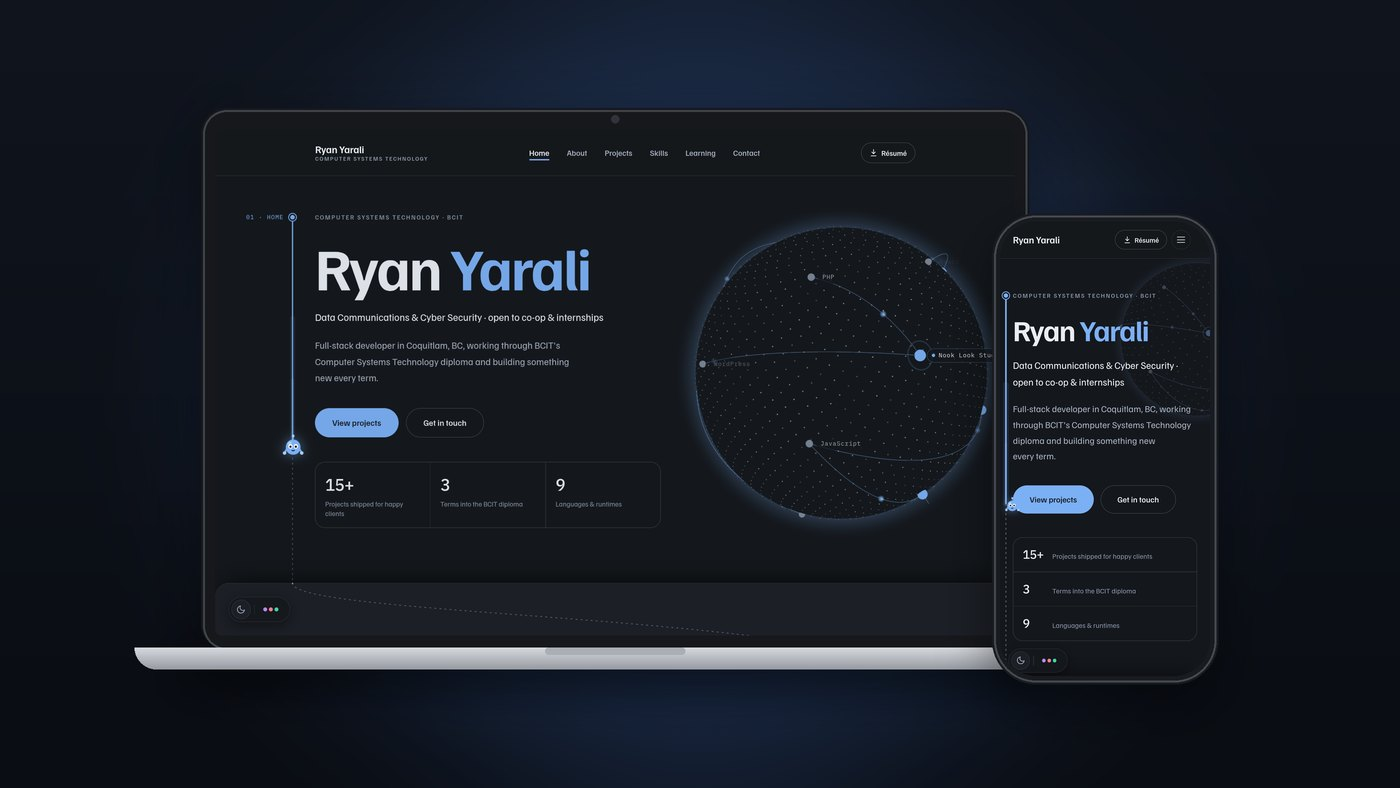
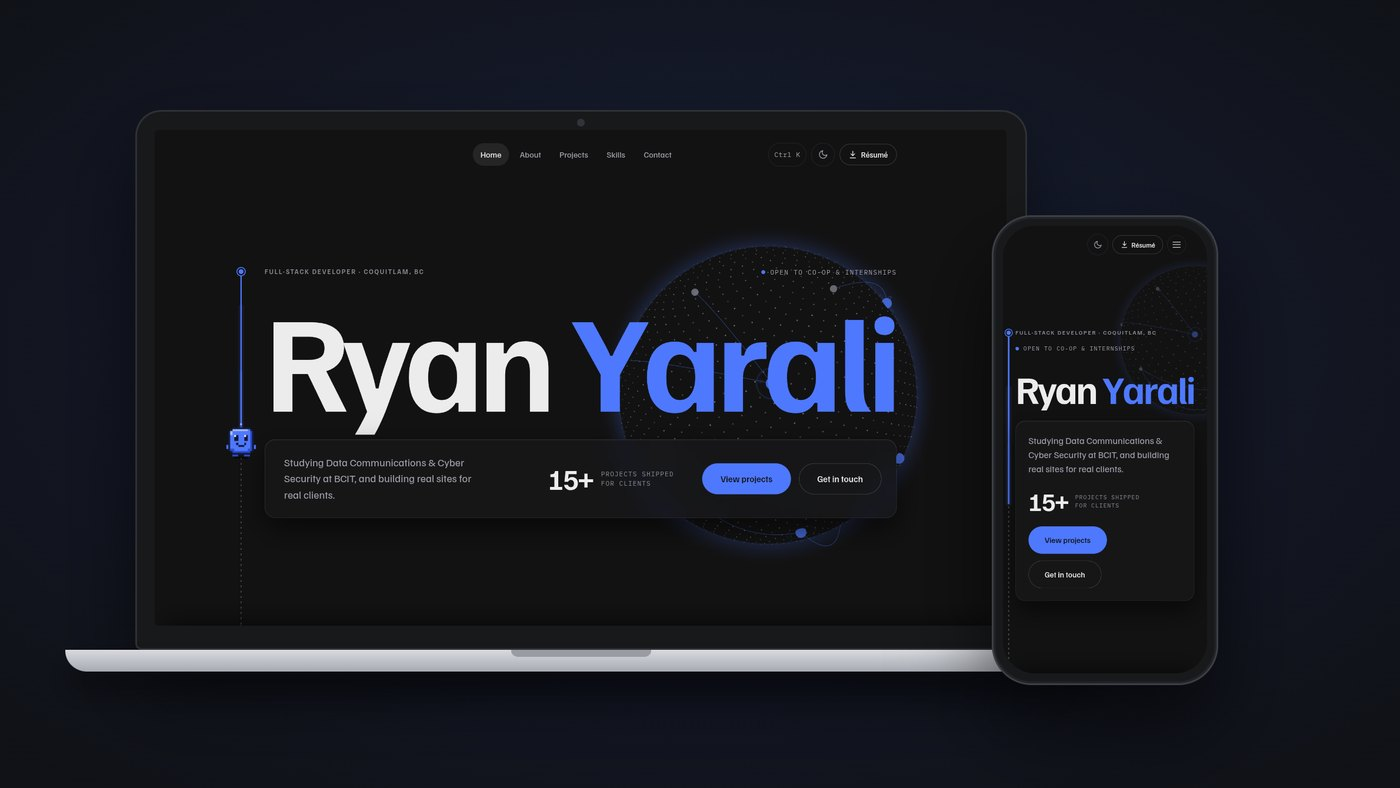
Share cards that sell: a designed card per page
- Home and projects share a card with the name, proof chips, a fan of real project screenshots and Ping
- Each case study shares its own card: project name, one-line pitch, its cover tilted, Ping and the URL
- The This site cover is rebuilt from the current design (it still showed the old one)

diff --git a/projects/foodroutes.html b/projects/foodroutes.html
@@ -29,18 +29,18 @@
     <meta property="og:url" content="https://ryanyarali.com/projects/foodroutes.html" />
     <meta property="og:title" content="FoodRoutes: Transit to Affordable Food | Ryan Yarali" />
     <meta property="og:description" content="A team-built mobile app for transit directions to affordable groceries. I built its navigation map and Supabase accounts flow in React and TypeScript." />
-    <meta property="og:image" content="https://ryanyarali.com/assets/fr-cover.jpg" />
-    <meta property="og:image:width" content="1400" />
-    <meta property="og:image:height" content="788" />
-    <meta property="og:image:alt" content="Three FoodRoutes phone screens: the map with nearby grocery stores in Burnaby and the travel-mode buttons, the saved-routes list, and the sign-up form showing validation errors" />
+    <meta property="og:image" content="https://ryanyarali.com/assets/og/foodroutes.jpg" />
+    <meta property="og:image:width" content="1200" />
+    <meta property="og:image:height" content="630" />
+    <meta property="og:image:alt" content="FoodRoutes, a case study by Ryan Yarali: affordable groceries nearby and transit directions there, beside a screenshot of the project." />
     <meta property="article:published_time" content="2026-10-12T12:00:00-07:00" />
     <meta property="article:modified_time" content="2026-10-12T12:00:00-07:00" />
     <meta property="article:author" content="https://ryanyarali.com/" />
     <meta name="twitter:card" content="summary_large_image" />
     <meta name="twitter:title" content="FoodRoutes: Transit to Affordable Food | Ryan Yarali" />
     <meta name="twitter:description" content="A team-built mobile app for transit directions to affordable groceries. I built its navigation map and Supabase accounts flow in React and TypeScript." />
-    <meta name="twitter:image" content="https://ryanyarali.com/assets/fr-cover.jpg" />
-    <meta name="twitter:image:alt" content="Three FoodRoutes phone screens: the map with nearby grocery stores in Burnaby and the travel-mode buttons, the saved-routes list, and the sign-up form showing validation errors" />
+    <meta name="twitter:image" content="https://ryanyarali.com/assets/og/foodroutes.jpg" />
+    <meta name="twitter:image:alt" content="FoodRoutes, a case study by Ryan Yarali: affordable groceries nearby and transit directions there, beside a screenshot of the project." />
 
     <title>FoodRoutes: Transit to Affordable Food | Ryan Yarali</title>
 

diff --git a/projects/vancobab.html b/projects/vancobab.html
@@ -29,18 +29,18 @@
     <meta property="og:url" content="https://ryanyarali.com/projects/vancobab.html" />
     <meta property="og:title" content="Vancobab: Food Truck Website | Ryan Yarali" />
     <meta property="og:description" content="How a Vancouver Persian kebab food truck got a five-page site with a Persian visual identity, an order builder, and a pre-launch signup flow, in plain HTML, CSS and JavaScript." />
-    <meta property="og:image" content="https://ryanyarali.com/assets/vb-cover.jpg" />
-    <meta property="og:image:width" content="1400" />
-    <meta property="og:image:height" content="788" />
-    <meta property="og:image:alt" content="Vancobab website on a laptop and a phone: the headline Persian kebab, fresh off the grill beside a gold Persian medallion around the flame emblem" />
+    <meta property="og:image" content="https://ryanyarali.com/assets/og/vancobab.jpg" />
+    <meta property="og:image:width" content="1200" />
+    <meta property="og:image:height" content="630" />
+    <meta property="og:image:alt" content="Vancobab, a case study by Ryan Yarali: a five-page site for a Persian kebab food truck, beside a screenshot of the project." />
     <meta property="article:published_time" content="2026-10-12T12:00:00-07:00" />
     <meta property="article:modified_time" content="2026-10-12T12:00:00-07:00" />
     <meta property="article:author" content="https://ryanyarali.com/" />
     <meta name="twitter:card" content="summary_large_image" />
     <meta name="twitter:title" content="Vancobab: Food Truck Website | Ryan Yarali" />
     <meta name="twitter:description" content="How a Vancouver Persian kebab food truck got a five-page site with a Persian visual identity, an order builder, and a pre-launch signup flow, in plain HTML, CSS and JavaScript." />
-    <meta name="twitter:image" content="https://ryanyarali.com/assets/vb-cover.jpg" />
-    <meta name="twitter:image:alt" content="Vancobab website on a laptop and a phone: the headline Persian kebab, fresh off the grill beside a gold Persian medallion around the flame emblem" />
+    <meta name="twitter:image" content="https://ryanyarali.com/assets/og/vancobab.jpg" />
+    <meta name="twitter:image:alt" content="Vancobab, a case study by Ryan Yarali: a five-page site for a Persian kebab food truck, beside a screenshot of the project." />
 
     <title>Vancobab: Food Truck Website | Ryan Yarali</title>
 

diff --git a/projects/nooklook.html b/projects/nooklook.html
@@ -29,18 +29,18 @@
     <meta property="og:url" content="https://ryanyarali.com/projects/nooklook.html" />
     <meta property="og:title" content="Nook Look Studio: Photography Website | Ryan Yarali" />
     <meta property="og:description" content="How a Coquitlam portrait studio got four priced service lines, a booking pipeline, a filterable gallery, and local SEO on WordPress, built and launched solo." />
-    <meta property="og:image" content="https://ryanyarali.com/assets/nl-cover.jpg" />
-    <meta property="og:image:width" content="1400" />
-    <meta property="og:image:height" content="788" />
-    <meta property="og:image:alt" content="Nook Look Studio website on a laptop and a phone: a dark panel reading Warm, unhurried portraits beside a maternity photograph by a lake" />
+    <meta property="og:image" content="https://ryanyarali.com/assets/og/nooklook.jpg" />
+    <meta property="og:image:width" content="1200" />
+    <meta property="og:image:height" content="630" />
+    <meta property="og:image:alt" content="Nook Look Studio, a case study by Ryan Yarali: the full web presence for a Coquitlam portrait studio, beside a screenshot of the project." />
     <meta property="article:published_time" content="2026-09-10T12:00:00-07:00" />
     <meta property="article:modified_time" content="2026-10-06T12:00:00-07:00" />
     <meta property="article:author" content="https://ryanyarali.com/" />
     <meta name="twitter:card" content="summary_large_image" />
     <meta name="twitter:title" content="Nook Look Studio: Photography Website | Ryan Yarali" />
     <meta name="twitter:description" content="How a Coquitlam portrait studio got four priced service lines, a booking pipeline, a filterable gallery, and local SEO on WordPress, built and launched solo." />
-    <meta name="twitter:image" content="https://ryanyarali.com/assets/nl-cover.jpg" />
-    <meta name="twitter:image:alt" content="Nook Look Studio website on a laptop and a phone: a dark panel reading Warm, unhurried portraits beside a maternity photograph by a lake" />
+    <meta name="twitter:image" content="https://ryanyarali.com/assets/og/nooklook.jpg" />
+    <meta name="twitter:image:alt" content="Nook Look Studio, a case study by Ryan Yarali: the full web presence for a Coquitlam portrait studio, beside a screenshot of the project." />
 
     <title>Nook Look Studio: Photography Website | Ryan Yarali</title>
 

diff --git a/projects/taskmate.html b/projects/taskmate.html
@@ -29,18 +29,18 @@
     <meta property="og:url" content="https://ryanyarali.com/projects/taskmate.html" />
     <meta property="og:title" content="TaskMate: Academic Task Management | Ryan Yarali" />
     <meta property="og:description" content="A task manager built so students stop losing deadlines across five apps. Firebase auth and Firestore end to end, tested by a nine-person team." />
-    <meta property="og:image" content="https://ryanyarali.com/assets/tm-cover.jpg" />
-    <meta property="og:image:width" content="1400" />
-    <meta property="og:image:height" content="788" />
-    <meta property="og:image:alt" content="Three TaskMate phone screens: the home dashboard welcoming Ryan, the To Do list grouped by due date with priorities, and completed tasks with check marks" />
+    <meta property="og:image" content="https://ryanyarali.com/assets/og/taskmate.jpg" />
+    <meta property="og:image:width" content="1200" />
+    <meta property="og:image:height" content="630" />
+    <meta property="og:image:alt" content="TaskMate, a case study by Ryan Yarali: students' deadlines from five apps in one list, beside a screenshot of the project." />
     <meta property="article:published_time" content="2026-03-27T12:00:00-07:00" />
     <meta property="article:modified_time" content="2026-10-06T12:00:00-07:00" />
     <meta property="article:author" content="https://ryanyarali.com/" />
     <meta name="twitter:card" content="summary_large_image" />
     <meta name="twitter:title" content="TaskMate: Academic Task Management | Ryan Yarali" />
     <meta name="twitter:description" content="A task manager built so students stop losing deadlines across five apps. Firebase auth and Firestore end to end, tested by a nine-person team." />
-    <meta name="twitter:image" content="https://ryanyarali.com/assets/tm-cover.jpg" />
-    <meta name="twitter:image:alt" content="Three TaskMate phone screens: the home dashboard welcoming Ryan, the To Do list grouped by due date with priorities, and completed tasks with check marks" />
+    <meta name="twitter:image" content="https://ryanyarali.com/assets/og/taskmate.jpg" />
+    <meta name="twitter:image:alt" content="TaskMate, a case study by Ryan Yarali: students' deadlines from five apps in one list, beside a screenshot of the project." />
 
     <title>TaskMate: Academic Task Management | Ryan Yarali</title>
 

diff --git a/projects/hackertycoon.html b/projects/hackertycoon.html
@@ -29,18 +29,18 @@
     <meta property="og:url" content="https://ryanyarali.com/projects/hackertycoon.html" />
     <meta property="og:title" content="Hacker Tycoon: JavaFX Idle Game | Ryan Yarali" />
     <meta property="og:description" content="A JavaFX idle tycoon game built by two at BCIT: hacking jobs, random events, an FBI raid meter, badges, and the save and sound systems I built." />
-    <meta property="og:image" content="https://ryanyarali.com/assets/ht-cover.jpg" />
-    <meta property="og:image:width" content="1400" />
-    <meta property="og:image:height" content="788" />
-    <meta property="og:image:alt" content="Hacker Tycoon on a laptop: a job board with progress bars, upgrade shops, badges, a suspicion meter at 72%, and three logs over falling green code" />
+    <meta property="og:image" content="https://ryanyarali.com/assets/og/hackertycoon.jpg" />
+    <meta property="og:image:width" content="1200" />
+    <meta property="og:image:height" content="630" />
+    <meta property="og:image:alt" content="Hacker Tycoon, a case study by Ryan Yarali: a JavaFX idle game, beside a screenshot of the project." />
     <meta property="article:published_time" content="2026-10-12T12:00:00-07:00" />
     <meta property="article:modified_time" content="2026-10-12T12:00:00-07:00" />
     <meta property="article:author" content="https://ryanyarali.com/" />
     <meta name="twitter:card" content="summary_large_image" />
     <meta name="twitter:title" content="Hacker Tycoon: JavaFX Idle Game | Ryan Yarali" />
     <meta name="twitter:description" content="A JavaFX idle tycoon game built by two at BCIT: hacking jobs, random events, an FBI raid meter, badges, and the save and sound systems I built." />
-    <meta name="twitter:image" content="https://ryanyarali.com/assets/ht-cover.jpg" />
-    <meta name="twitter:image:alt" content="Hacker Tycoon on a laptop: a job board with progress bars, upgrade shops, badges, a suspicion meter at 72%, and three logs over falling green code" />
+    <meta name="twitter:image" content="https://ryanyarali.com/assets/og/hackertycoon.jpg" />
+    <meta name="twitter:image:alt" content="Hacker Tycoon, a case study by Ryan Yarali: a JavaFX idle game, beside a screenshot of the project." />
 
     <title>Hacker Tycoon: JavaFX Idle Game | Ryan Yarali</title>
 

diff --git a/projects/this-site.html b/projects/this-site.html
@@ -29,18 +29,18 @@
     <meta property="og:url" content="https://ryanyarali.com/projects/this-site.html" />
     <meta property="og:title" content="How this site is built | Ryan Yarali" />
     <meta property="og:description" content="How ryanyarali.com is built: a 3D network globe, scroll-stacked pages and real network timing, with no framework, no build step and every word in the HTML." />
-    <meta property="og:image" content="https://ryanyarali.com/assets/site-cover.jpg" />
-    <meta property="og:image:width" content="1400" />
-    <meta property="og:image:height" content="788" />
-    <meta property="og:image:alt" content="This portfolio on a laptop and a phone: Ryan Yarali's name beside a 3D network globe, with Ping on the route line" />
+    <meta property="og:image" content="https://ryanyarali.com/assets/og/this-site.jpg" />
+    <meta property="og:image:width" content="1200" />
+    <meta property="og:image:height" content="630" />
+    <meta property="og:image:alt" content="This site, a case study by Ryan Yarali: how ryanyarali.com is built, beside a screenshot of the project." />
     <meta property="article:published_time" content="2026-10-06T12:00:00-07:00" />
     <meta property="article:modified_time" content="2026-10-06T12:00:00-07:00" />
     <meta property="article:author" content="https://ryanyarali.com/" />
     <meta name="twitter:card" content="summary_large_image" />
     <meta name="twitter:title" content="How this site is built | Ryan Yarali" />
     <meta name="twitter:description" content="How ryanyarali.com is built: a 3D network globe, scroll-stacked pages and real network timing, with no framework, no build step and every word in the HTML." />
-    <meta name="twitter:image" content="https://ryanyarali.com/assets/site-cover.jpg" />
-    <meta name="twitter:image:alt" content="This portfolio on a laptop and a phone: Ryan Yarali's name beside a 3D network globe, with Ping on the route line" />
+    <meta name="twitter:image" content="https://ryanyarali.com/assets/og/this-site.jpg" />
+    <meta name="twitter:image:alt" content="This site, a case study by Ryan Yarali: how ryanyarali.com is built, beside a screenshot of the project." />
 
     <title>How this site is built | Ryan Yarali</title>
 

diff --git a/index.html b/index.html
@@ -43,15 +43,15 @@
     <meta property="og:url" content="https://ryanyarali.com/" />
     <meta property="og:title" content="Ryan Yarali | Full-Stack Developer &amp; BCIT CST Student" />
     <meta property="og:description" content="Ryan Yarali, full-stack developer and BCIT Computer Systems Technology student in Coquitlam, BC, open to internship, co-op and junior developer roles." />
-    <meta property="og:image" content="https://ryanyarali.com/assets/og-card-pixel.jpg" />
+    <meta property="og:image" content="https://ryanyarali.com/assets/og/home.jpg" />
     <meta property="og:image:width" content="1200" />
     <meta property="og:image:height" content="630" />
-    <meta property="og:image:alt" content="Ryan Yarali, full-stack developer at BCIT, open to co-op and internships, beside Ping, a blue pixel-art packet character saying: Ping! Come see what Ryan has built." />
+    <meta property="og:image:alt" content="Ryan Yarali, full-stack developer at BCIT, open to co-op and internships, with screenshots of his client sites and Ping, his pixel-art mascot, saying: Ping! Come see what Ryan has built." />
     <meta name="twitter:card" content="summary_large_image" />
     <meta name="twitter:title" content="Ryan Yarali | Full-Stack Developer &amp; BCIT CST Student" />
     <meta name="twitter:description" content="Ryan Yarali, full-stack developer and BCIT Computer Systems Technology student in Coquitlam, BC, open to internship, co-op and junior developer roles." />
-    <meta name="twitter:image" content="https://ryanyarali.com/assets/og-card-pixel.jpg" />
-    <meta name="twitter:image:alt" content="Ryan Yarali, full-stack developer at BCIT, open to co-op and internships, beside Ping, a blue pixel-art packet character saying: Ping! Come see what Ryan has built." />
+    <meta name="twitter:image" content="https://ryanyarali.com/assets/og/home.jpg" />
+    <meta name="twitter:image:alt" content="Ryan Yarali, full-stack developer at BCIT, open to co-op and internships, with screenshots of his client sites and Ping, his pixel-art mascot, saying: Ping! Come see what Ryan has built." />
 
     <title>Ryan Yarali | Full-Stack Developer &amp; BCIT CST Student</title>
 

diff --git a/projects.html b/projects.html
@@ -29,15 +29,15 @@
     <meta property="og:url" content="https://ryanyarali.com/projects.html" />
     <meta property="og:title" content="Projects | Ryan Yarali, Full-Stack Developer" />
     <meta property="og:description" content="Client websites and coursework by Ryan Yarali: a WordPress studio site, a food truck site, a React and SQLite restaurant platform, and a Firebase task manager." />
-    <meta property="og:image" content="https://ryanyarali.com/assets/og-card-pixel.jpg" />
+    <meta property="og:image" content="https://ryanyarali.com/assets/og/home.jpg" />
     <meta property="og:image:width" content="1200" />
     <meta property="og:image:height" content="630" />
-    <meta property="og:image:alt" content="Ryan Yarali, full-stack developer at BCIT, open to co-op and internships, beside Ping, a blue pixel-art packet character saying: Ping! Come see what Ryan has built." />
+    <meta property="og:image:alt" content="Ryan Yarali, full-stack developer at BCIT, open to co-op and internships, with screenshots of his client sites and Ping, his pixel-art mascot, saying: Ping! Come see what Ryan has built." />
     <meta name="twitter:card" content="summary_large_image" />
     <meta name="twitter:title" content="Projects | Ryan Yarali, Full-Stack Developer" />
     <meta name="twitter:description" content="Client websites and coursework by Ryan Yarali: a WordPress studio site, a food truck site, a React and SQLite restaurant platform, and a Firebase task manager." />
-    <meta name="twitter:image" content="https://ryanyarali.com/assets/og-card-pixel.jpg" />
-    <meta name="twitter:image:alt" content="Ryan Yarali, full-stack developer at BCIT, open to co-op and internships, beside Ping, a blue pixel-art packet character saying: Ping! Come see what Ryan has built." />
+    <meta name="twitter:image" content="https://ryanyarali.com/assets/og/home.jpg" />
+    <meta name="twitter:image:alt" content="Ryan Yarali, full-stack developer at BCIT, open to co-op and internships, with screenshots of his client sites and Ping, his pixel-art mascot, saying: Ping! Come see what Ryan has built." />
 
     <title>Projects | Ryan Yarali, Full-Stack Developer</title>
 
